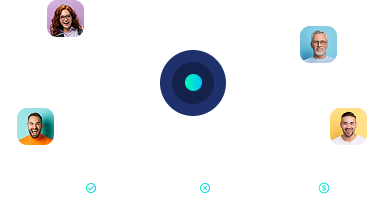
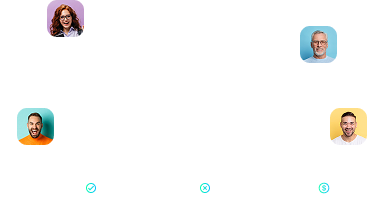
update

Changed region(s): [[0.4021, 0.2353, 0.5876, 0.5882]]

diff --git a/index-3.html b/index-3.html
@@ -275,7 +275,14 @@
             </section>
             
             <!-- Services -->
-            <section class="wptb-services pt-0" style="background-image: url('assets/img/background/bg-4.png');">
+            <section class="wptb-services pt-0">
+                <div class="wptb-item-layer wptb-item-layer-one">
+                    <img src="assets/img/misc/ellipse-9.svg" alt="img">
+                </div>
+                
+                <div class="wptb-item-layer wptb-item-layer-two">
+                    <img src="assets/img/misc/ellipse-10.svg" alt="img">
+                </div>
                 <div class="container">
                     <div class="wptb-heading md">
                         <div class="wptb-item--inner">
@@ -796,7 +803,7 @@
                         <div class="features-box--wrapper">                                             
                             <div class="row g-0">
                                 <div class="col-xl-4 col-md-6">
-                                    <div class="wptb-feature-box wptb-feature-box--8 wow fadeInLeft">
+                                    <div class="wptb-feature-box wptb-feature-box--8 wow fadeInLeft" style="background-image: url('assets/img/misc/grid-bg-2.png');">
                                         <div class="wptb-feature-box--inner">                                        
                                             <div class="wptb-feature-box--top">
                                                 <h6 class="wptb-feature-box--title">Set up in minutes</h6>
@@ -806,6 +813,7 @@
                                                 <div class="wptb-feature-box__feature">
                                                     <div class="wptb-feature-box--feature-type wptb-feature-box--feature-type--style-1 wow fadeInUp"> 
                                                         <img src="assets/img/misc/settings.png" alt="img">
+                                                        <img src="assets/img/misc/settings-1.png" alt="img" class="image-two">
                                                     </div>
                                                 </div>
                                             </div>
@@ -814,7 +822,7 @@
                                 </div>
 
                                 <div class="col-xl-4 col-md-6">
-                                    <div class="wptb-feature-box wptb-feature-box--9 wow fadeInLeft">
+                                    <div class="wptb-feature-box wptb-feature-box--9 wow fadeInLeft" style="background-image: url('assets/img/misc/grid-bg-2.png');">
                                         <div class="wptb-feature-box--inner">                                        
                                             <div class="wptb-feature-box--top">
                                                 <h6 class="wptb-feature-box--title">Pick your model</h6>
@@ -832,7 +840,7 @@
                                 </div>
                                 
                                 <div class="col-xl-4 col-md-6">
-                                    <div class="wptb-feature-box wptb-feature-box--10 wow fadeInLeft">
+                                    <div class="wptb-feature-box wptb-feature-box--10 wow fadeInLeft" style="background-image: url('assets/img/misc/grid-bg-2.png');">
                                         <div class="wptb-feature-box--inner">                                        
                                             <div class="wptb-feature-box--top">
                                                 <h6 class="wptb-feature-box--title">Smart escalation</h6>
@@ -1009,7 +1017,10 @@
                                             <div class="wptb-feature-box--bottom">
                                                 <div class="wptb-feature-box__feature">
                                                     <div class="wptb-feature-box--feature-type wptb-feature-box--feature-type--style-1 wow fadeInUp"> 
-                                                        <img src="assets/img/misc/h-1.png" alt="img">
+                                                        <div class="imagebox imagebox-one effect_bounce">
+                                                            <img src="assets/img/misc/h-1.png" alt="img">
+                                                            <img src="assets/img/misc/loop-point.png" alt="img" class="loop-point">
+                                                        </div>
                                                     </div>
                                                 </div>
                                             </div>
@@ -1027,7 +1038,15 @@
                                             <div class="wptb-feature-box--bottom">
                                                 <div class="wptb-feature-box__feature">
                                                     <div class="wptb-feature-box--feature-type wptb-feature-box--feature-type--style-1 wow fadeInUp"> 
-                                                        <img src="assets/img/misc/h-2.png" alt="img">
+                                                        <div class="imagebox imagebox-one effect_bounce">
+                                                            <img src="assets/img/misc/priority-layer-1.png" alt="img">
+                                                        </div>
+                                                        <div class="imagebox imagebox-two effect_bounce">
+                                                            <img src="assets/img/misc/priority-layer-2.png" alt="img">
+                                                        </div>
+                                                        <div class="imagebox imagebox-three effect_bounce">
+                                                            <img src="assets/img/misc/priority-layer-3.png" alt="img">
+                                                        </div>
                                                     </div>
                                                 </div>
                                             </div>
@@ -1045,7 +1064,19 @@
                                             <div class="wptb-feature-box--bottom">
                                                 <div class="wptb-feature-box__feature">
                                                     <div class="wptb-feature-box--feature-type wptb-feature-box--feature-type--style-1 wow fadeInUp"> 
-                                                        <img src="assets/img/misc/h-3.png" alt="img">
+                                                        <img src="assets/img/misc/circle-gradient.svg" alt="img" class="layer-gradient">
+                                                        <div class="imagebox imagebox-one effect_bounce">
+                                                            <img src="assets/img/misc/inbox-layer-1.png" alt="img">
+                                                        </div>
+                                                        <div class="imagebox imagebox-two effect_bounce">
+                                                            <img src="assets/img/misc/inbox-layer-2.png" alt="img">
+                                                        </div>
+                                                        <div class="imagebox imagebox-three effect_bounce">
+                                                            <img src="assets/img/misc/inbox-layer-3.png" alt="img">
+                                                        </div>
+                                                        <div class="imagebox imagebox-four effect_bounce">
+                                                            <img src="assets/img/misc/inbox-layer-4.png" alt="img">
+                                                        </div>
                                                     </div>
                                                 </div>
                                             </div>

diff --git a/assets/css/style.css b/assets/css/style.css
@@ -151,7 +151,7 @@
     display: flex;
     flex-direction: column;
     justify-content: space-between;
-    gap: 60px;
+    gap: 35px;
 }
 
 .wptb-feature-box .wptb-feature-box--heading {
@@ -473,6 +473,7 @@
 }
 
 .theme-style--three .wptb-feature-box--feature-type {
+    position: relative;
     text-align: center;
 }
 
@@ -527,6 +528,66 @@
     height: 580px;
     padding: 55px 40px;
     border-radius: 0px;
+}
+
+.theme-style--three .wptb-feature-box--8 .wptb-feature-box--feature-type .image-two {
+    position: absolute;
+    top: 25%;
+    right: 25px;
+    animation: wptb_spin 30s linear infinite;
+}
+
+.theme-style--three .wptb-feature-box--7 .wptb-feature-box--feature-type .layer-gradient {
+    position: absolute;
+    left: 0;
+    right: 0;
+    top: -50px;
+}
+
+.theme-style--three .wptb-feature-box--7 .wptb-feature-box--feature-type .imagebox {
+    position: relative;
+    margin-bottom: -93px;
+}
+.theme-style--three .wptb-feature-box--7 .wptb-feature-box--feature-type .imagebox-one {
+    z-index: 4;
+    animation-delay: 2s;
+}
+.theme-style--three .wptb-feature-box--7 .wptb-feature-box--feature-type .imagebox-two {
+    z-index: 3;
+    animation-delay: 3s;
+}
+.theme-style--three .wptb-feature-box--7 .wptb-feature-box--feature-type .imagebox-three {
+    z-index: 2;
+    animation-delay: 4s;
+}
+.theme-style--three .wptb-feature-box--7 .wptb-feature-box--feature-type .imagebox-four {
+    z-index: 1;
+    animation-delay: 5s;
+}
+
+.theme-style--three .wptb-feature-box--6 .wptb-feature-box--feature-type .imagebox {
+    position: relative;
+    margin-bottom: -10px;
+}
+.theme-style--three .wptb-feature-box--6 .wptb-feature-box--feature-type .imagebox-one {
+    z-index: 1;
+    animation-delay: 2s;
+}
+.theme-style--three .wptb-feature-box--6 .wptb-feature-box--feature-type .imagebox-two {
+    z-index: 2;
+    animation-delay: 3s;
+}
+.theme-style--three .wptb-feature-box--6 .wptb-feature-box--feature-type .imagebox-three {
+    z-index: 3;
+    animation-delay: 4s;
+}
+
+.theme-style--three .wptb-feature-box--5 .wptb-feature-box--feature-type .loop-point {
+    position: absolute;
+    left: 41%;
+    top: 26%;
+    display: inline-block;
+    animation: wptb_spin_y 10s linear infinite;
 }
 
 .wptb-speciality .features-box--wrapper {
@@ -2563,4 +2624,20 @@
     height: 70px;
     border: 1px solid rgba(var(--color-white-rgb), 0.06);
     border-radius: 17px;
+}
+
+.theme-style--three .wptb-services .wptb-item-layer {
+    top: 0;
+    bottom: auto;
+    width: auto;
+}
+
+.theme-style--three .wptb-services .wptb-item-layer-one {
+    left: 0;
+    right: auto;
+}
+
+.theme-style--three .wptb-services .wptb-item-layer-two {
+    left: auto;
+    right: 0;
 }

diff --git a/assets/css/animation.css b/assets/css/animation.css
@@ -132,6 +132,15 @@
     }
 }
 
+@keyframes wptb_spin_y {
+    0% {
+        transform: rotateY(0deg);
+    }
+    100% {
+        transform: rotateY(360deg);
+    }
+}
+
 @keyframes wptb_btn_shine {
     100% {
         left: 200%;
@@ -258,4 +267,26 @@
         -webkit-transform: translateY(-50%) rotate(-360deg) scale(1.1);
         transform: translateY(-50%) rotate(-360deg) scale(1.1);
     }
+}
+
+@keyframes wptb_bounce {
+    0%{
+        -webkit-transform: translateY(0);
+        -ms-transform: translateY(0);
+        transform: translateY(0)
+    }
+    50% {
+        -webkit-transform: translateY(-30px);
+        -ms-transform: translateY(-30px);
+        transform: translateY(-30px)
+    }
+    100% {
+        -webkit-transform: translateY(0px);
+        -ms-transform: translateY(0px);
+        transform: translateY(0px)
+    }
+}
+
+.effect_bounce {
+    animation: wptb_bounce 10s linear infinite;
 }

diff --git a/assets/css/color.css b/assets/css/color.css
@@ -319,4 +319,5 @@ body.theme-style--three.theme-style--dark {
     background: -moz-linear-gradient(180deg,rgba(25, 36, 80, 1) 0%, rgba(36, 39, 172, 0) 100%);
     background: linear-gradient(180deg,rgba(25, 36, 80, 1) 0%, rgba(36, 39, 172, 0) 100%);
     backdrop-filter: blur(7px);
+    box-shadow: none;
 }
